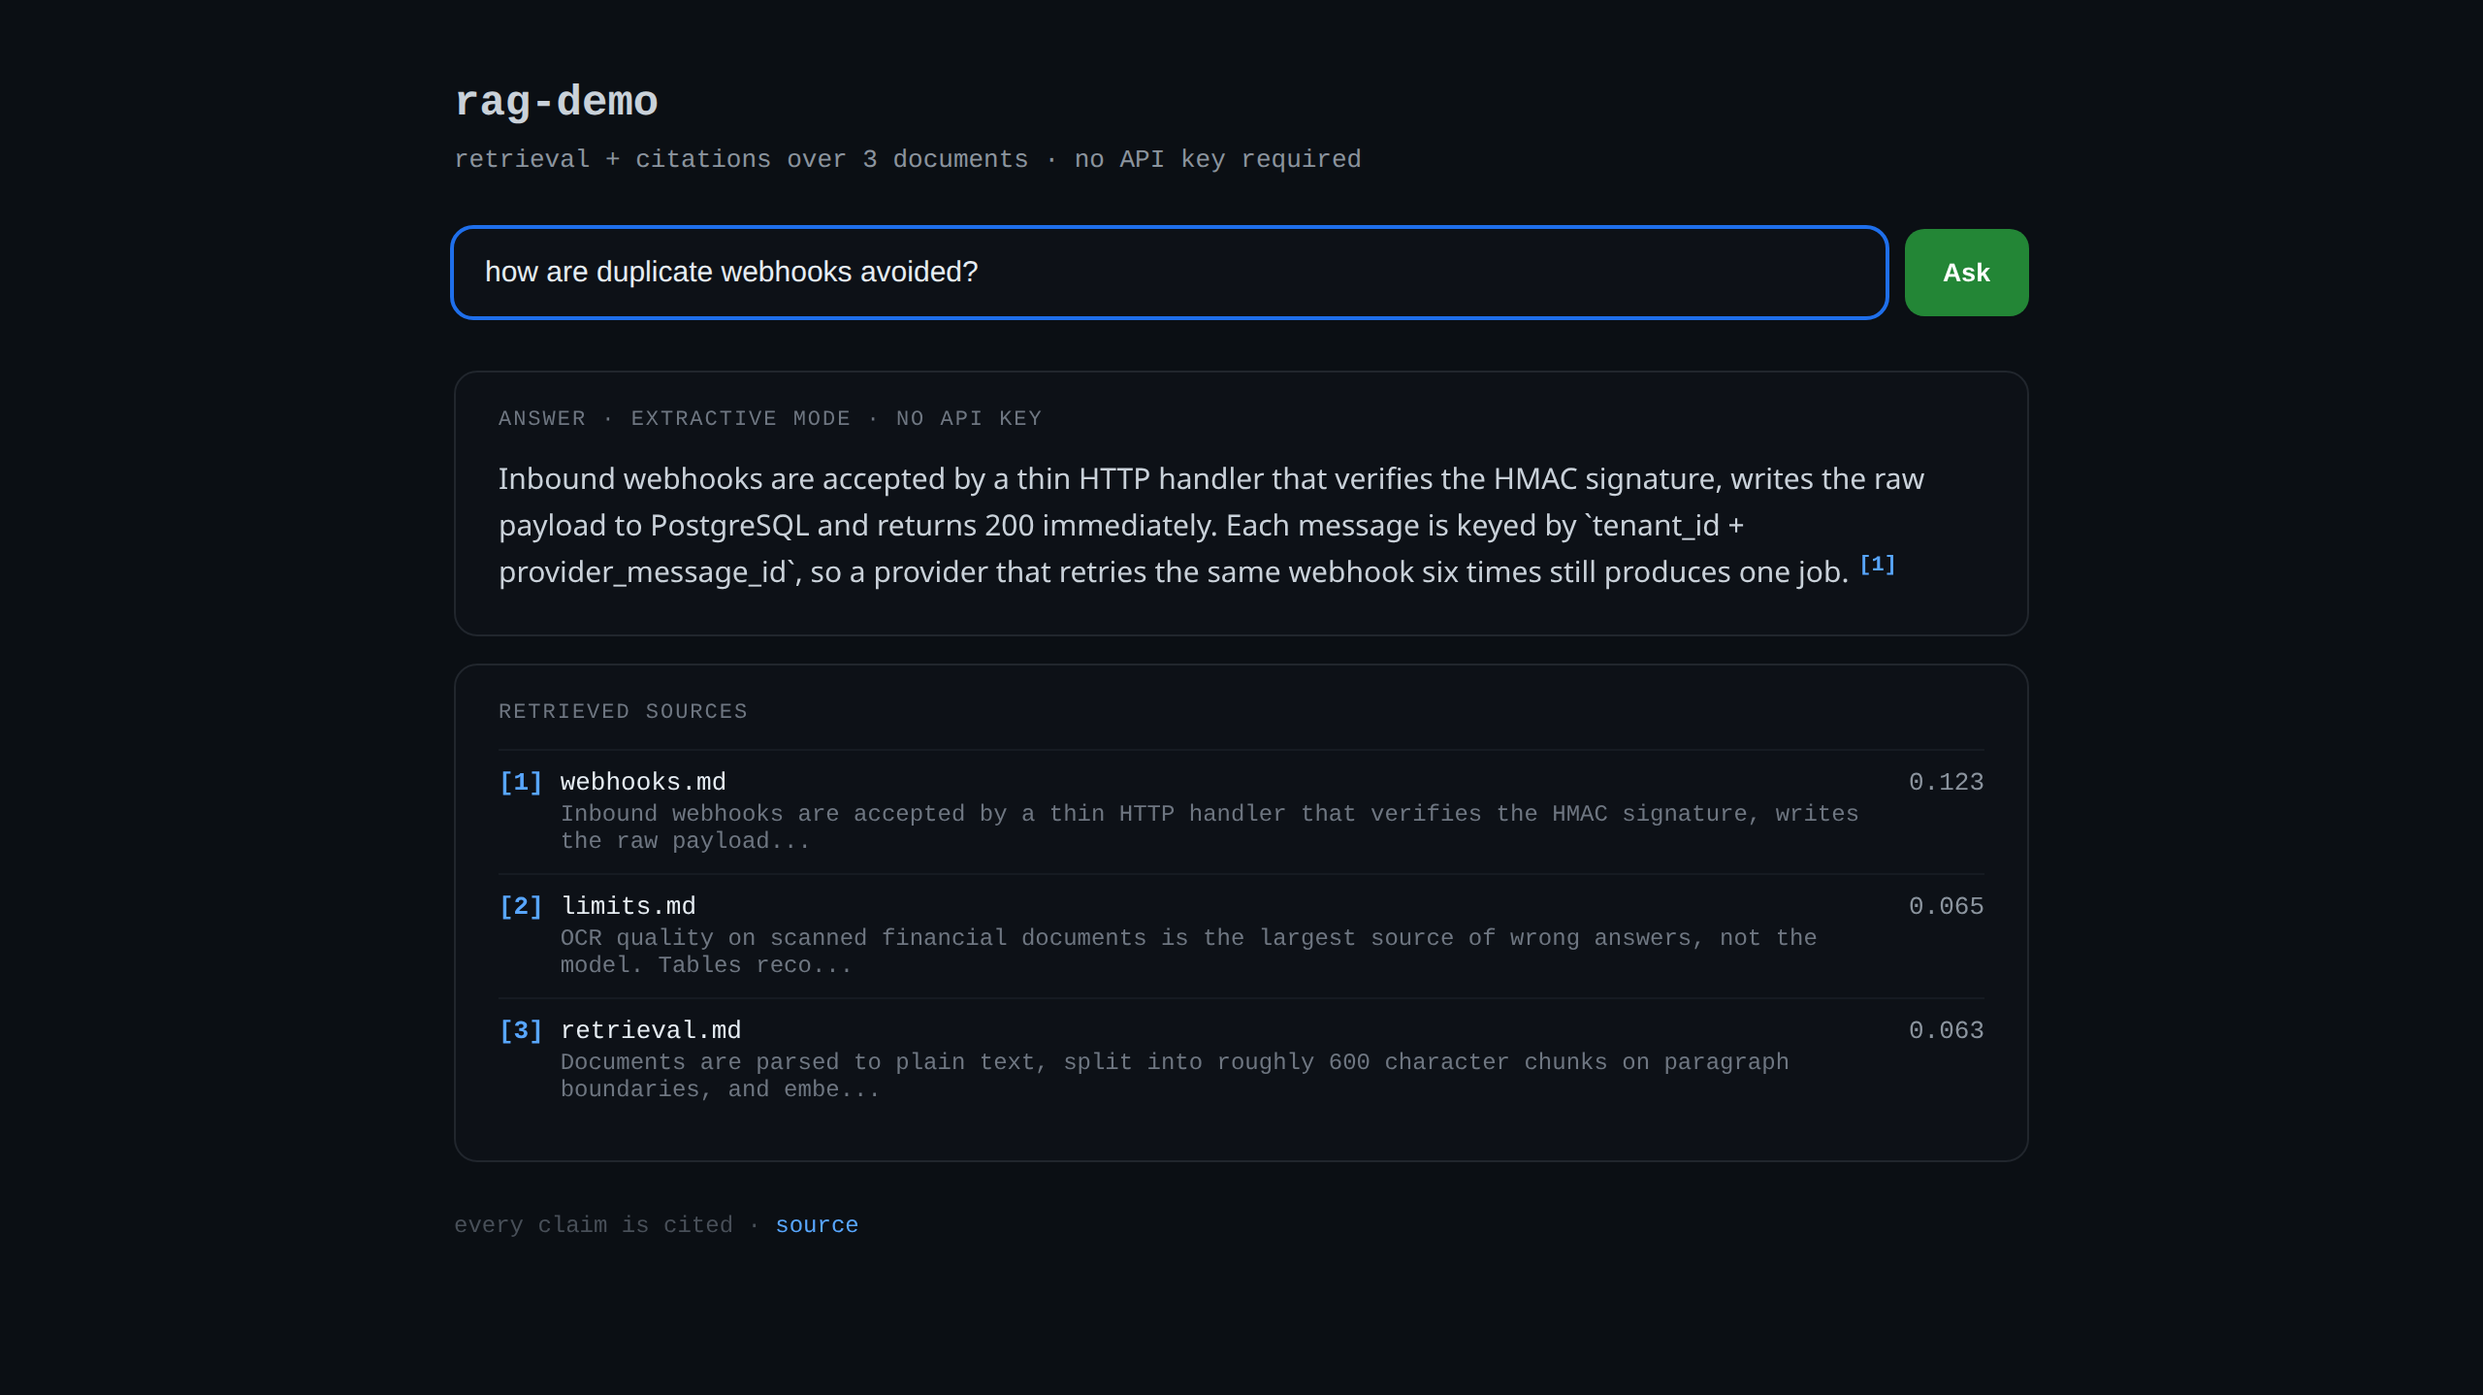
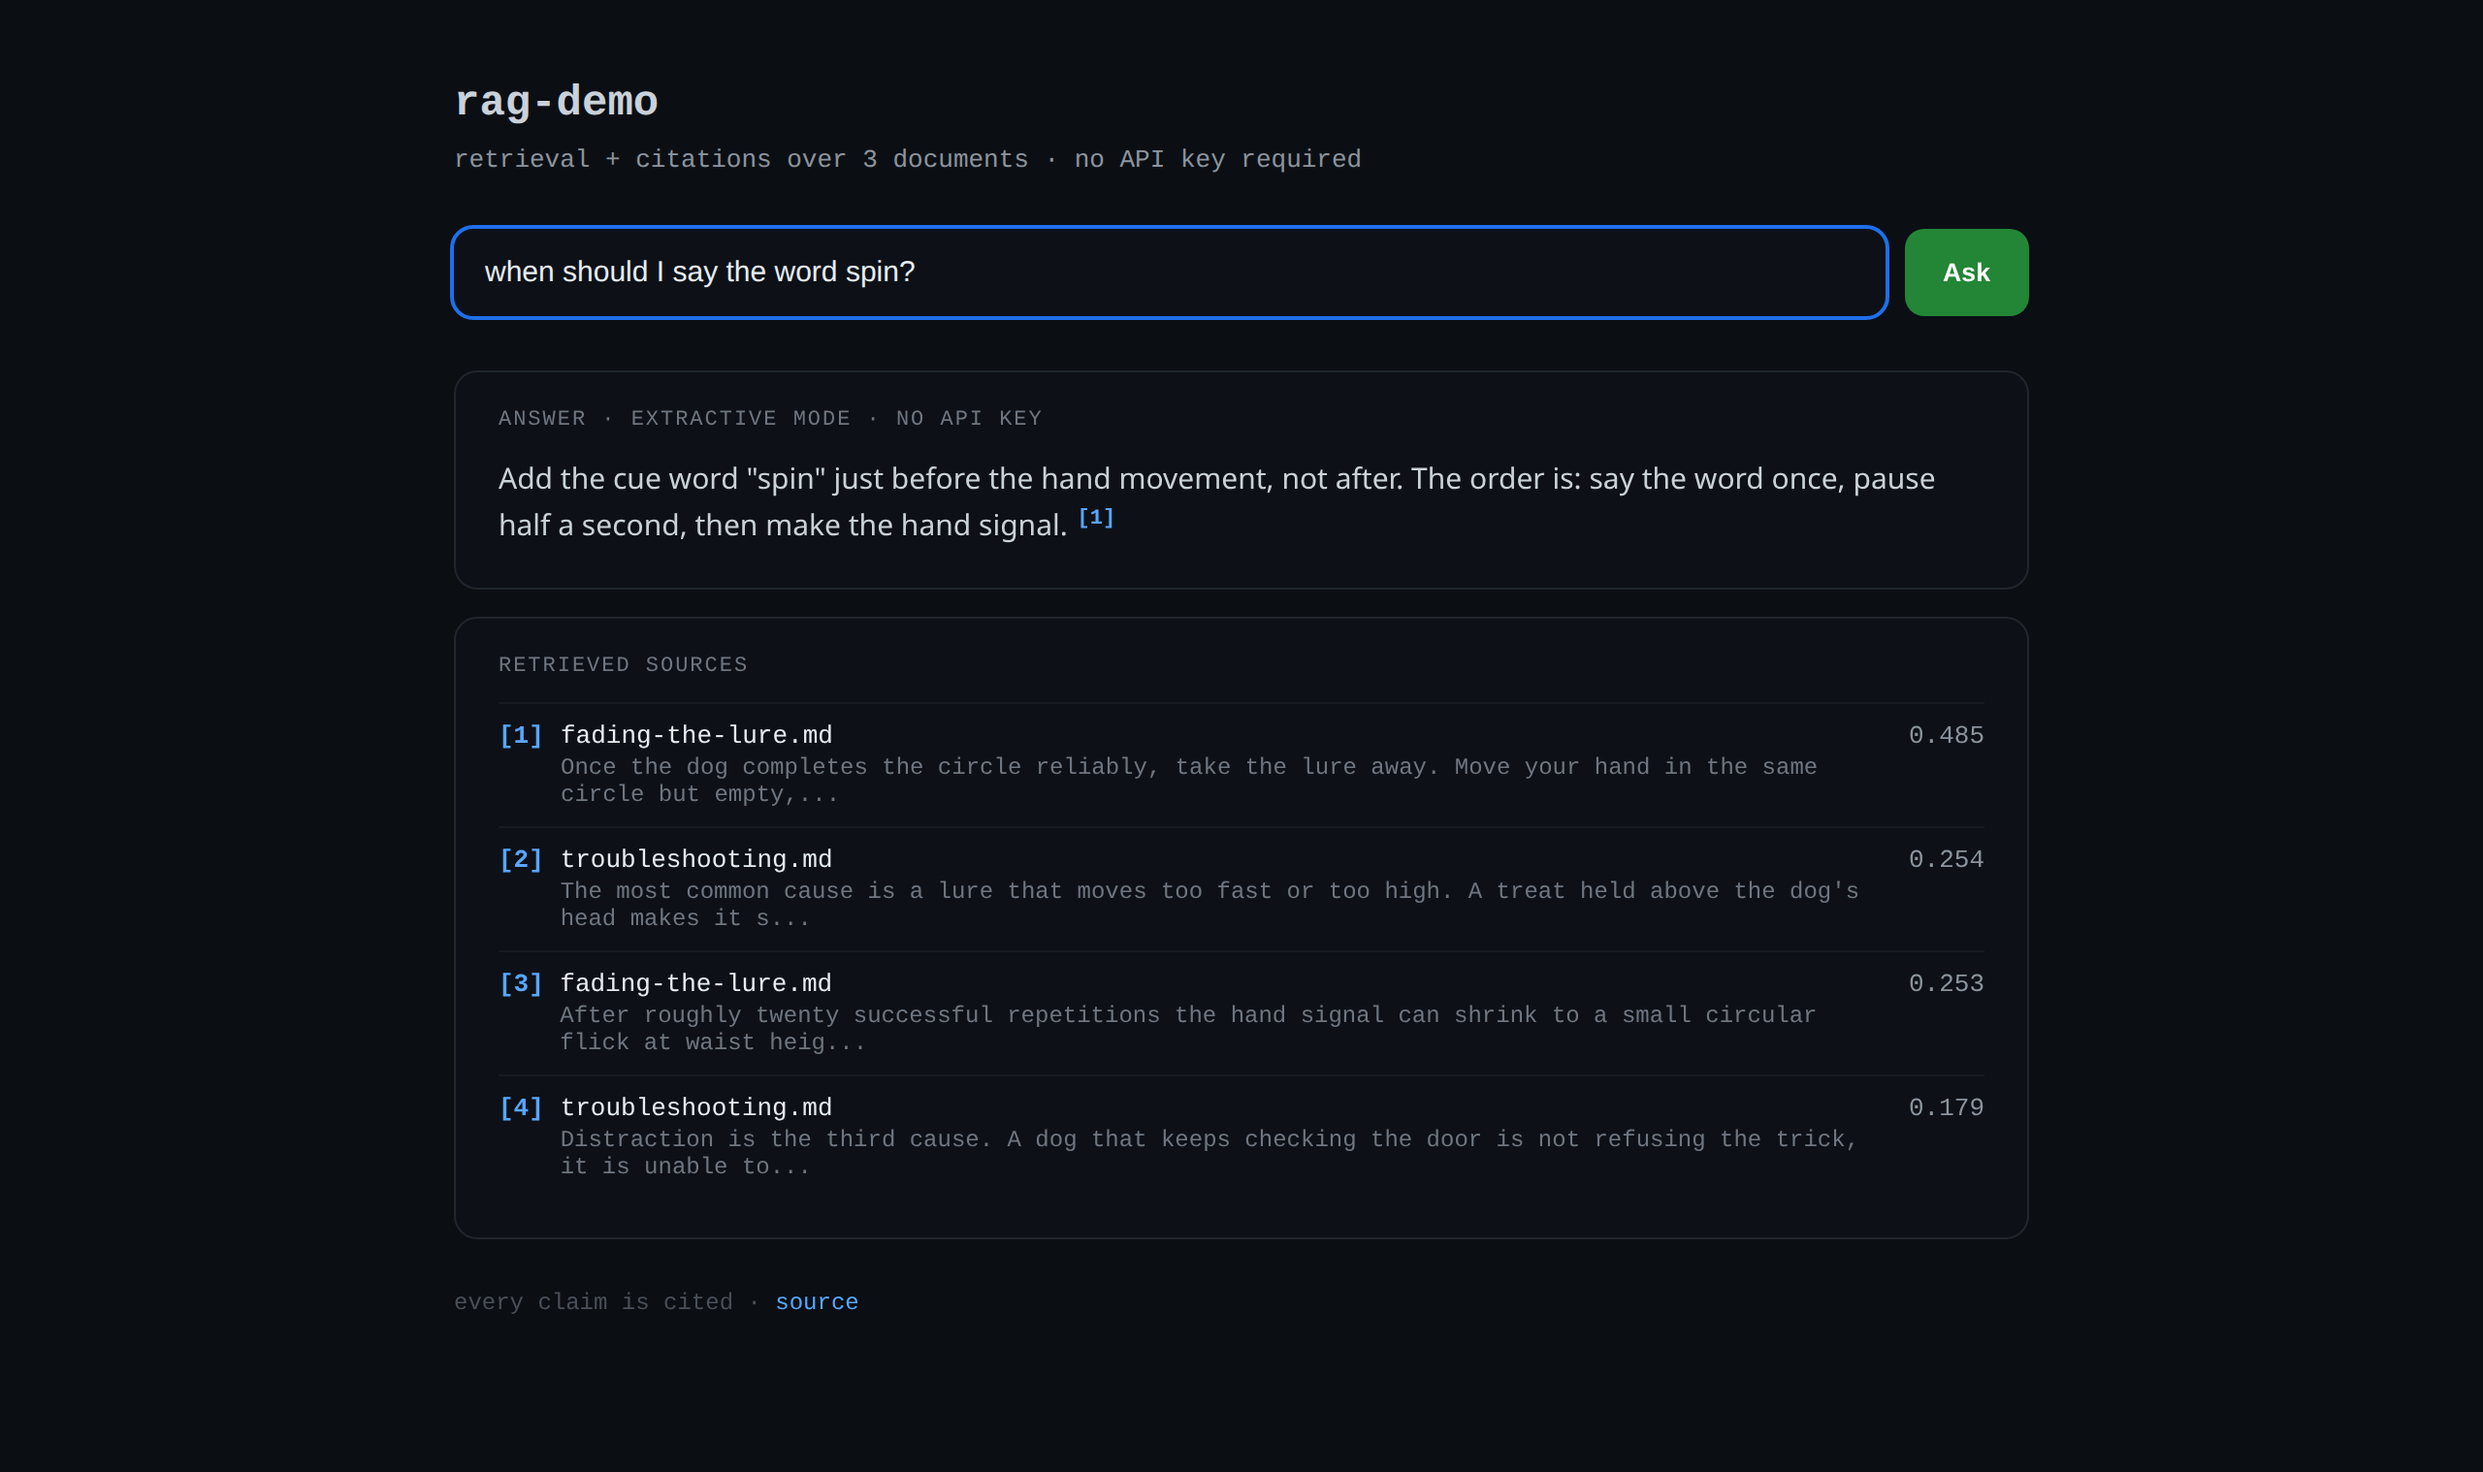
Use a plain-language sample corpus (teaching a dog to spin); hybrid retrieval + honest eval numbers

diff --git a/rag.py b/rag.py
@@ -103,10 +103,28 @@ def embed_one(text, idx):
     return openai_embed([text])[0] if idx["embedder"] == "openai" else local_vec(text, idx["idf"])
 
 
+def terms(text):
+    return [w for w in WORD.findall(text.lower()) if len(w) > 2]
+
+
+def lexical(question, text, idf):
+    """IDF-weighted share of question terms present in the chunk (5-char prefix ≈ stemming)."""
+    q, words = terms(question), terms(text)
+    if not q:
+        return 0.0
+    total = sum(idf.get(t, 1.0) for t in q) or 1.0
+    got = sum(idf.get(t, 1.0) for t in q
+              if any(w == t or (len(w) > 4 and len(t) > 4 and w[:5] == t[:5]) for w in words))
+    return got / total
+
+
 def retrieve(question, k=4):
+    """Hybrid: cosine on the vector index plus a lexical bonus. The hashing embedder is weak on
+    paraphrase, so lexical overlap keeps exact vocabulary questions from landing at rank 3."""
     idx = load()
     qv = embed_one(question, idx)
-    scored = sorted(((cosine(qv, d["vec"]), d) for d in idx["docs"]), key=lambda x: -x[0])
+    scored = sorted(((cosine(qv, d["vec"]) + 0.25 * lexical(question, d["text"], idx["idf"]), d) for d in idx["docs"]),
+                    key=lambda x: -x[0])
     return scored[:k]
 
 

diff --git a/README.md b/README.md
@@ -4,6 +4,10 @@ A retrieval-augmented answering pipeline in one dependency-free Python file, bui
 the parts that decide whether a RAG system is trustworthy: **chunking, retrieval, a
 relevance floor that refuses to answer, and citations on every claim.**
 
+The sample corpus is deliberately mundane — three short documents about teaching a dog to
+spin — because the point is the pipeline, not the domain. Point it at your own documents with
+`python3 rag.py ingest <folder>`.
+
 ![The demo UI: a question, an answer with a citation, and the retrieved sources with scores](assets/ui.png)
 
 ```bash
@@ -30,15 +34,19 @@ No install step, no model download, no API key. `index.json` is generated.
 
 ```
 $ python3 rag.py eval
-PASS hit@1: how many times does a failed webhook retry and what is the backoff
-PASS hit@1: how are duplicate webhooks from the same provider avoided
-PASS hit@1: where are the vectors stored
-PASS hit@2: what happens when confidence is too low to answer
-PASS hit@1: what is the biggest cause of wrong answers
-PASS hit@1: how much latency does the reranker add
+PASS hit@1: how long should each training session be
+PASS hit@2: what do I do if the dog refuses to turn
+PASS hit@1: when should I add the word spin
+PASS hit@3: how do I stop using the treat as a lure
+PASS hit@2: how often should I reward the dog later on
+PASS hit@1: should I physically push the dog to turn
 
-hit@1 5/6  hit@4 6/6
+hit@1 3/6  hit@4 6/6
 ```
+
+`hit@4 6/6` is the number that matters for a RAG pipeline: the correct chunk always reaches
+the prompt. `hit@1 3/6` is where the local hashing embedder hits its ceiling on paraphrase —
+the production system put a cross-encoder reranker in exactly that gap.
 
 ## Design decisions
 

diff --git a/docs/troubleshooting.md b/docs/troubleshooting.md
@@ -1,0 +1,17 @@
+# When the dog does not spin
+
+The most common cause is a lure that moves too fast or too high. A treat held above the dog's
+head makes it sit or jump instead of turning. Keep the treat at nose height and move it in a
+circle the dog can physically follow.
+
+The second most common cause is a low-value reward. Kibble is not worth working for in a room
+where a squirrel was outside five minutes ago. Try a piece of cooked chicken and see whether
+the dog offers the turn without hesitation.
+
+Distraction is the third cause. A dog that keeps checking the door is not refusing the trick,
+it is unable to focus. Move to a smaller room, close the door, and remove other animals from
+the space before trying again.
+
+Never push the dog's body around to force the turn. Physical pressure makes the trick feel
+like something done to the dog rather than something it offers, and it slows learning down.
+If ten repetitions in a row fail, end the session and try again tomorrow.

diff --git a/docs/fading-the-lure.md b/docs/fading-the-lure.md
@@ -1,0 +1,16 @@
+# Fading the treat and adding a cue
+
+Once the dog completes the circle reliably, take the lure away. Move your hand in the same
+circle but empty, and reward from your other hand after the dog finishes. Do this for three
+or four repetitions before adding a spoken cue.
+
+Add the cue word "spin" just before the hand movement, not after. The order is: say the word
+once, pause half a second, then make the hand signal. Repeating the word while the dog is
+already turning teaches it that the word means nothing.
+
+After roughly twenty successful repetitions the hand signal can shrink to a small circular
+flick at waist height, and later to nothing at all. Dogs read position and posture, so keep
+your body still when you test whether the word alone works.
+
+Reward every repetition at first, then every second one, then randomly. Intermittent rewards
+make the behaviour more resistant to extinction than paying every single time.

diff --git a/docs/teaching-spin.md b/docs/teaching-spin.md
@@ -1,0 +1,16 @@
+# Teaching a dog to spin
+
+Spin is a trick where the dog turns a full circle in place. It is easy to teach because the
+dog already knows how to follow a treat with its nose.
+
+Start in a quiet room with no other dogs and a floor that does not slip. Hold a small treat
+between your thumb and finger, put it right at the dog's nose, and move your hand in a slow
+circle to the dog's left. The nose follows the treat, the body follows the nose. Most dogs
+complete a circle on the third or fourth attempt.
+
+Mark the moment the dog finishes the circle with a click or a quiet "yes", then give the
+treat. The marker is what tells the dog which part of the movement earned the food.
+
+Keep each session between two and three minutes. Three short sessions a day beats one long
+one, because a tired or full dog stops offering behaviour. Stop while the dog is still
+keen, not after it walks away.
